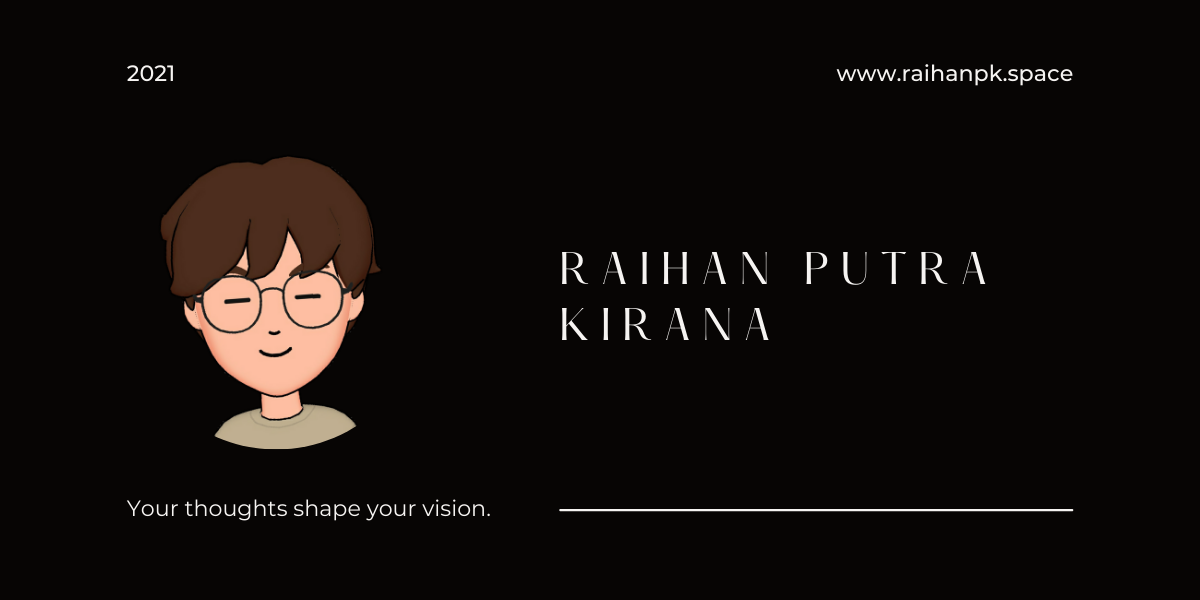
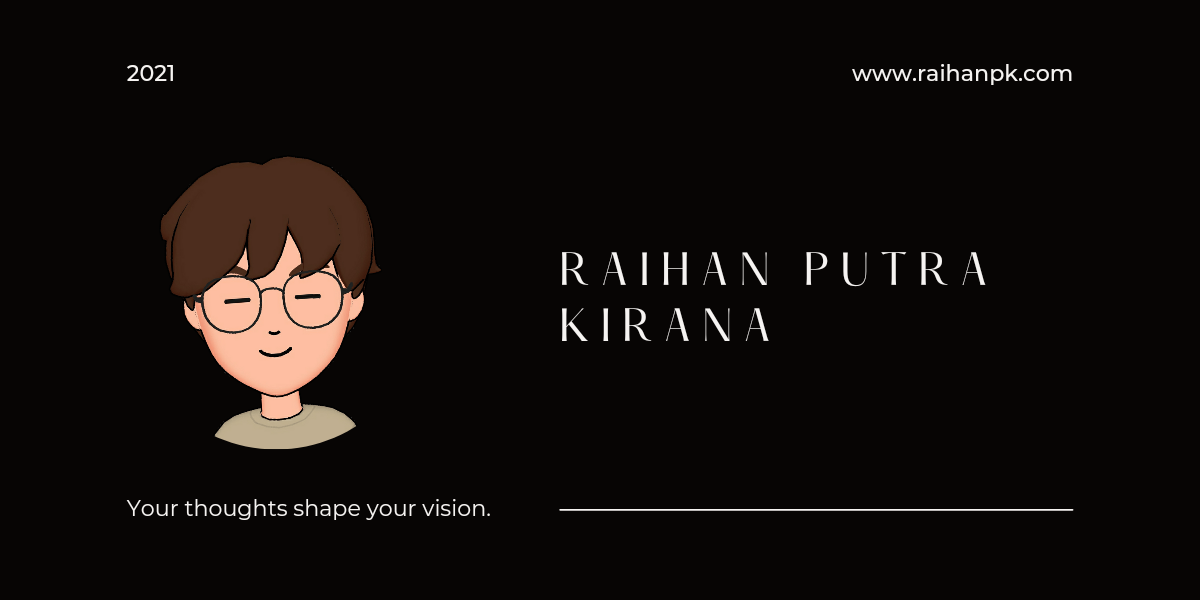
update email, twitter card, analytics ID to new

diff --git a/pages/index.js b/pages/index.js
@@ -22,9 +22,10 @@ export default function Home({ posts }) {
         <div className="flex flex-col items-center my-6 xl:flex-row gap-x-12 xl:mb-12">
           <div className="pt-6">
             <h1 className="pb-6 text-3xl font-extrabold leading-9 tracking-tight text-gray-900 dark:text-gray-100 sm:text-4xl sm:leading-10 md:text-6xl md:leading-14">
-              Hai, Saya Raihan Putra Kirana <span role="img" aria-label="waving hand" className="wave">
+              Hai, Saya Raihan Putra Kirana{" "}<span role="img" aria-label="waving hand" className="wave">
             👋
           </span>
+          {" "}
             </h1>
             <h2 className="text-lg prose text-gray-600 dark:text-gray-400">
               {`Selamat datang di situs saya – ya! Saya adalah seorang pelajar yang membuat situs ini untuk menambah wawasan saya. Jika ada waktu kosong, sebisanya saya akan membuat `}

diff --git a/data/siteMetadata.js b/data/siteMetadata.js
@@ -8,7 +8,7 @@ const siteMetadata = {
   siteRepo: 'https://github.com/itslunareix/raihanpk',
   image: '/static/img/avatar.png',
   socialBanner: '/static/img/twitter-card.png',
-  email: 'info@raihanpk.space',
+  email: 'me@raihanpk.com',
   github: 'https://github.com/itslunareix',
   twitter: 'https://twitter.com/itslunareix',
   linkedin: 'https://www.linkedin.com/',
@@ -18,7 +18,7 @@ const siteMetadata = {
     // supports plausible, simpleAnalytics or googleAnalytics
     plausibleDataDomain: false, // e.g. tailwind-nextjs-starter-blog.vercel.app
     simpleAnalytics: true, // true or false
-    googleAnalyticsId: 'G-ERJBPQ922Y', // e.g. UA-000000-2 or G-XXXXXXX
+    googleAnalyticsId: 'UA-208521341-1', // e.g. UA-000000-2 or G-XXXXXXX
   },
   newsletter: {
     // Please add your .env file and modify it according to your selection

diff --git a/data/blog/2021-09-25-hello-world.md b/data/blog/2021-09-25-hello-world.md
@@ -8,7 +8,7 @@ summary: Selamat datang di blog saya
 
 Saya telah mempunyai ide untuk memulai blog sejak tahun kemarin, tetapi belajar dari rumah justru membuat saya sibuk sehingga rencana tersebut terus-menerus diundur. Pada tahun kemarin, saya mempunyai pemikiran untuk menggunakan sistem WordPress, tetapi saya mengurungkan niat tersebut karena terlalu banyak masalah untuk menggabungkan semua fitur yang saya inginkan. Templat situs yang dibangun menggunakan framework Next.js & Tailwind CSS yang baru-baru ini saya temui di [GitHub](https://github.com), yang menjadi dasar pembuatan situs web ini, tampaknya merupakan solusi yang sempurna. Templat tersebut dapat menghilangkan rasa pusing saya dari _hardcoding_ namun tetap fleksibel dan cukup sederhana, sehingga saya dapat fokus pada konten & kustomisasi tampilannya.
 
-Saya berharap dapat menggunakan situs ini untuk menyimpan hal yang telah saya pelajari & membagikan opini saya melalui tulisan. Jika anda memiliki saran untuk situs ini ataupun ingin menghubungi saya, silakan kirim email ke [info@raihanpk.space](mailto:info@raihanpk.space). Email tersebut akan saya gunakan untuk menampung seluruh pesan yang hanya khusus berhubungan langsung dengan saya.
+Saya berharap dapat menggunakan situs ini untuk menyimpan hal yang telah saya pelajari & membagikan opini saya melalui tulisan. Jika anda memiliki saran untuk situs ini ataupun ingin menghubungi saya, silakan kirim email ke [me@raihanpk.com](mailto:me@raihanpk.com). Email tersebut akan saya gunakan untuk menampung seluruh pesan yang hanya khusus berhubungan langsung dengan saya.
 
 Sebelum saya akhiri tulisan ini, saya hanya ingin menyampaikan terima kasih kepada kalian yang mau meluangkan waktunya untuk membaca blog saya ini.
 

diff --git a/data/authors/default.md b/data/authors/default.md
@@ -3,7 +3,7 @@ name: Raihan Putra Kirana
 avatar: /static/img/avatar.png
 occupation: Pelajar
 company: SMA
-email: info@raihanpk.space
+email: me@raihanpk.com
 twitter: https://twitter.com/itslunareix
 github: https://github.com/itslunareix
 discord: https://discord.com/users/529339818191224833
